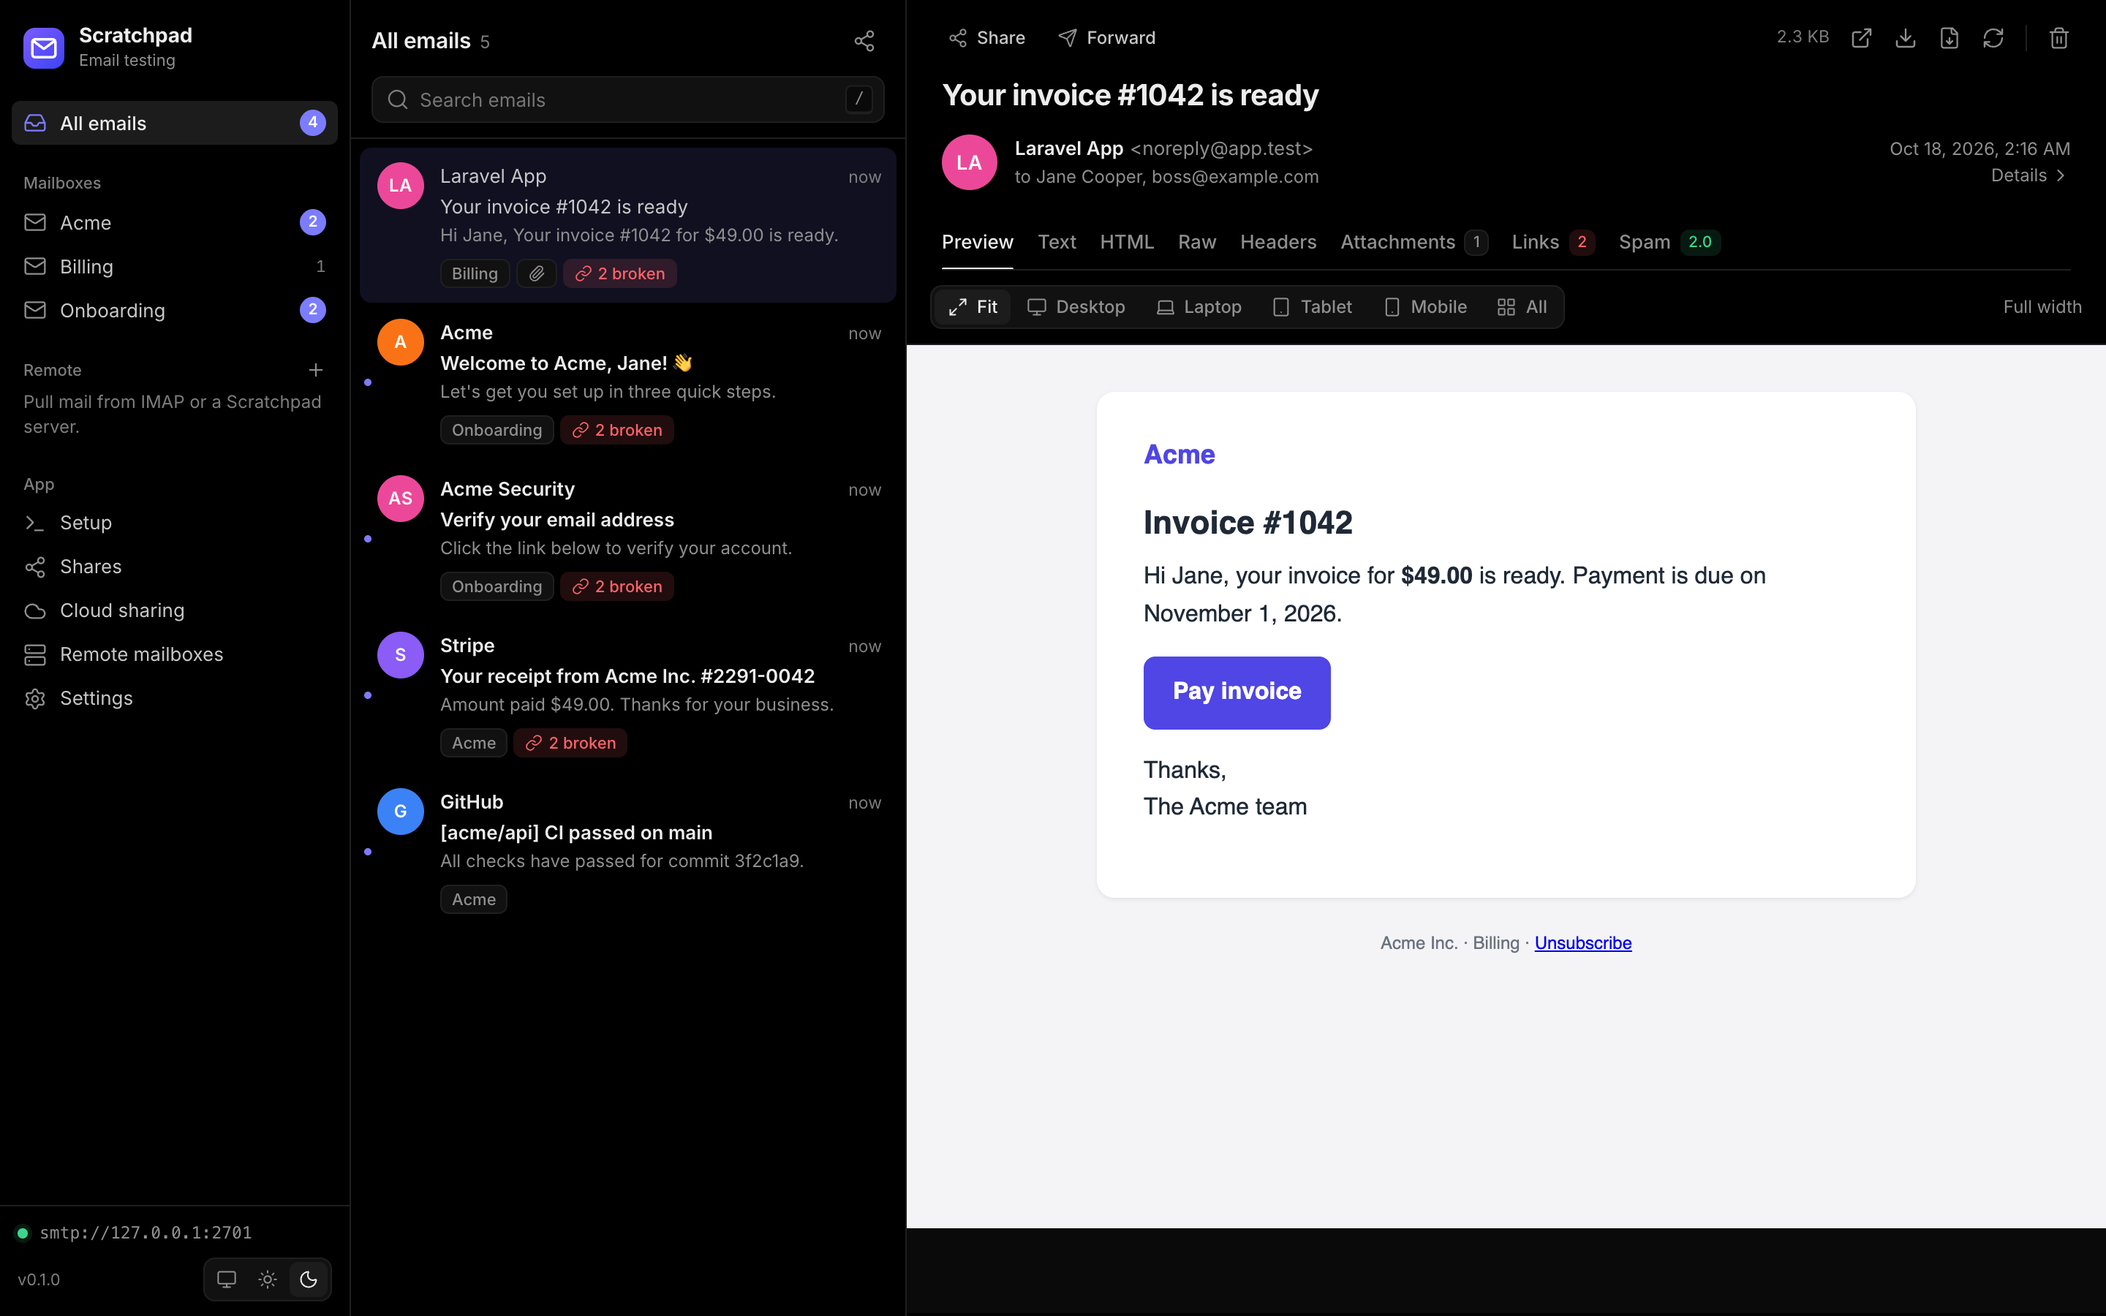
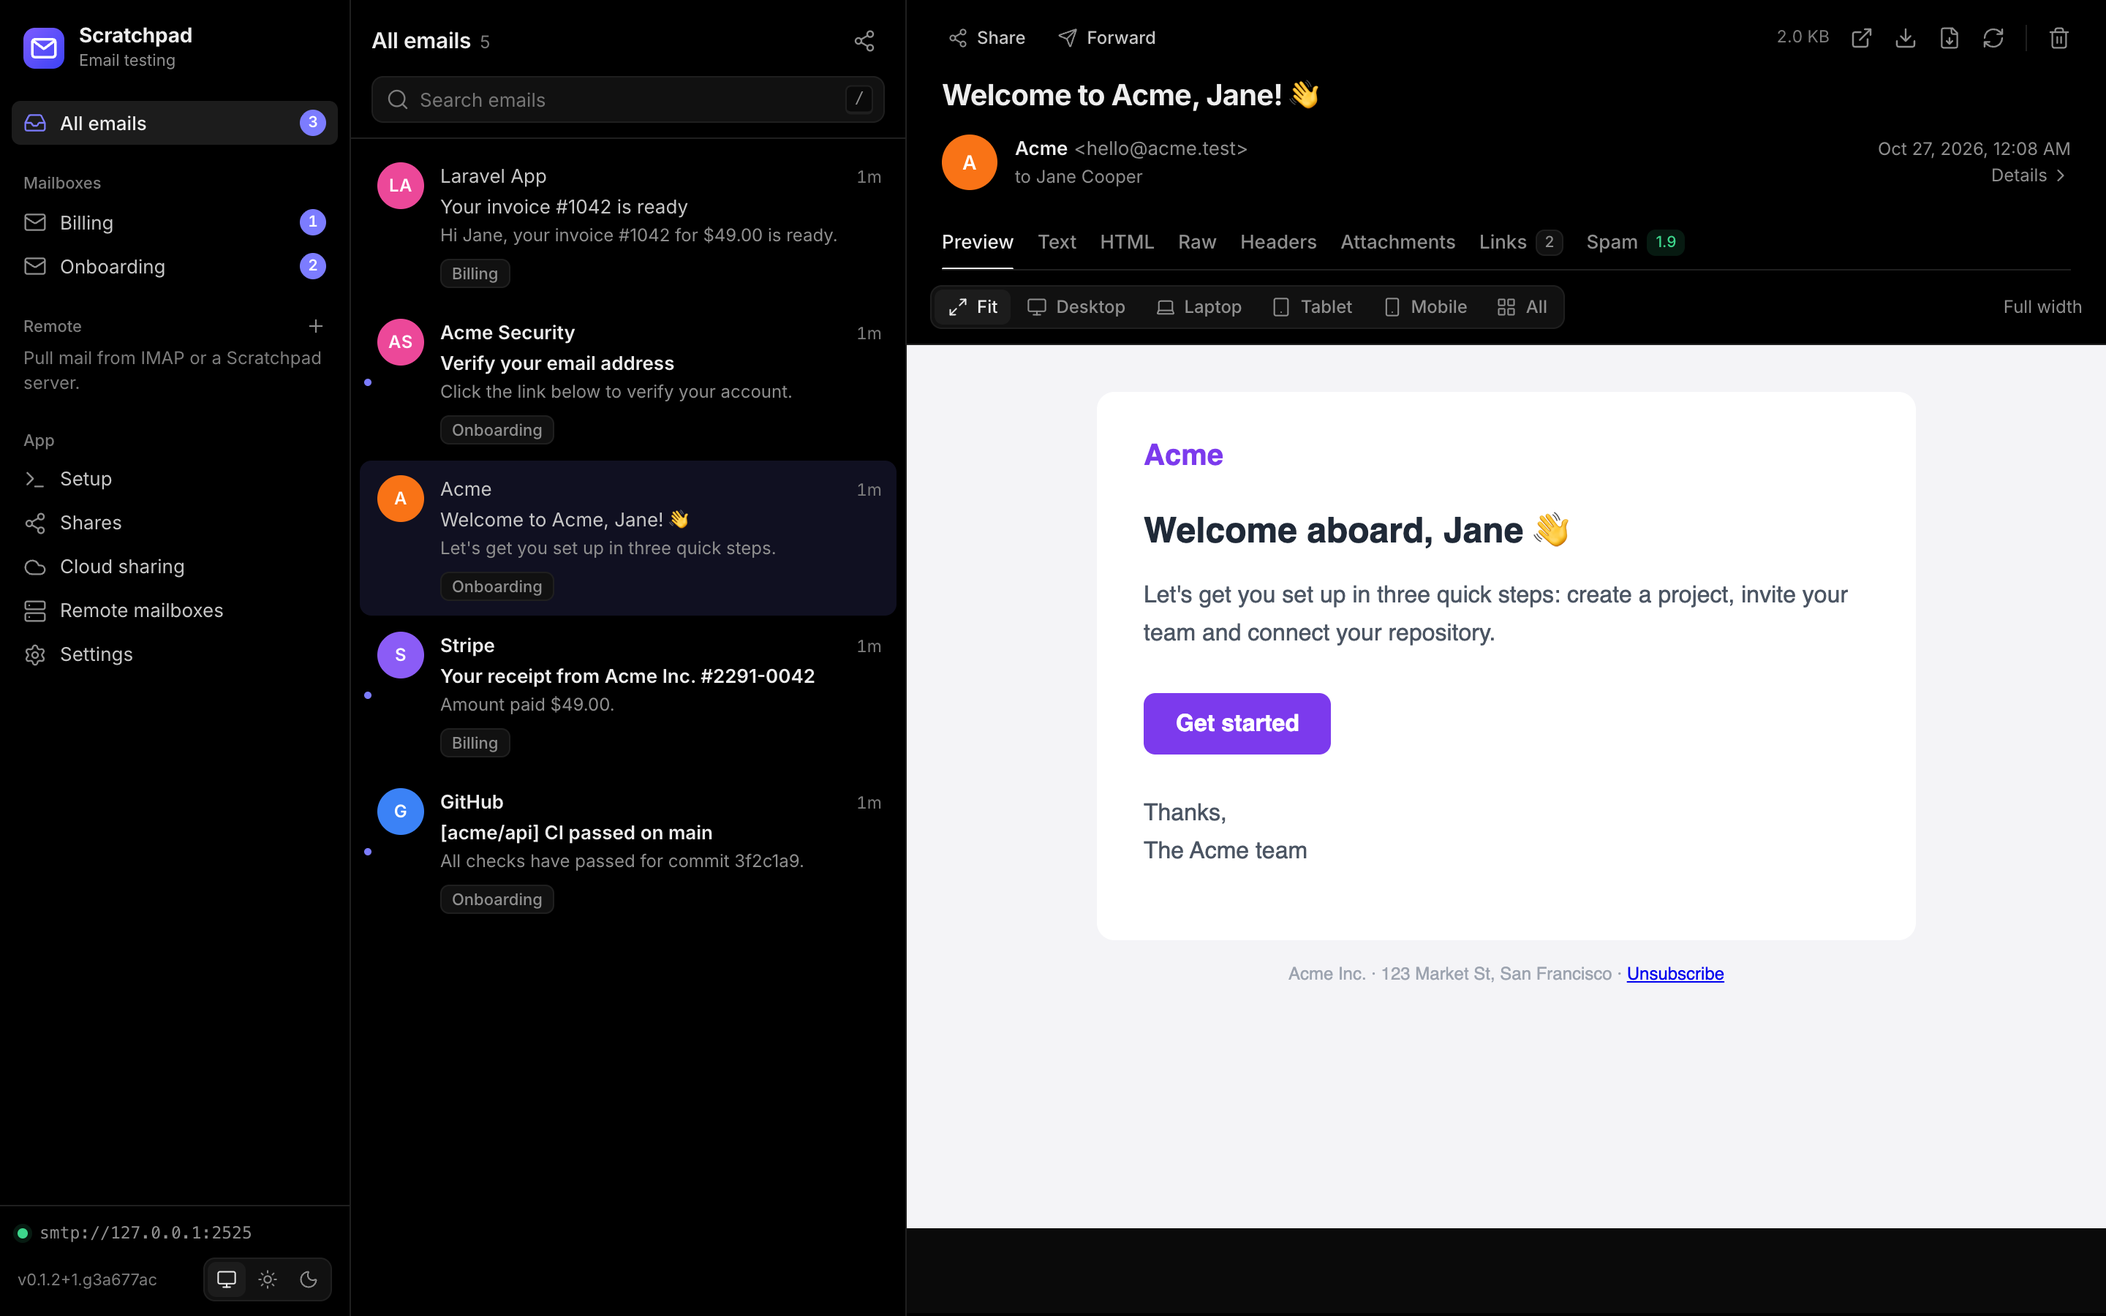
docs: refresh README and screenshots
- Expand the README with quick-start guidance, features, platform support, and updated screenshots
- Align CI and release docs with the master branch

diff --git a/README.md b/README.md
@@ -1,35 +1,114 @@
+<div align="center">
+
+<img src="packaging/icons/scratchpad-256.png" alt="Scratchpad" width="96" height="96">
+
 # Scratchpad
 
-Email testing and debugging for developers, by [ScaleXY](https://scalexy.com). Your applications
-send email to Scratchpad's local SMTP server instead of real inboxes. You then inspect the captured
-messages in a native desktop app (built with [iced](https://iced.rs)) or in a web interface.
-Scratchpad can also run **headless** on a server and be used entirely from the browser.
+**Email testing and debugging for developers.**
+Catch every email your app sends on a local SMTP server and inspect it in a native desktop app or
+in the browser.
 
-```
-scratchpad                 # desktop app (+ web interface on http://127.0.0.1:8025)
-scratchpad --headless      # SMTP server + web interface only, for servers and containers
-```
+[![CI](https://github.com/ScaleXY/scratchpad/actions/workflows/ci.yml/badge.svg?branch=master)](https://github.com/ScaleXY/scratchpad/actions/workflows/ci.yml)
+[![Release build](https://github.com/ScaleXY/scratchpad/actions/workflows/release.yml/badge.svg)](https://github.com/ScaleXY/scratchpad/actions/workflows/release.yml)
+[![Latest release](https://img.shields.io/github/v/release/ScaleXY/scratchpad?include_prereleases&sort=semver&label=release)](https://github.com/ScaleXY/scratchpad/releases)
+[![License: MIT](https://img.shields.io/github/license/ScaleXY/scratchpad)](LICENSE)
+[![Rust 1.90+](https://img.shields.io/badge/rust-1.90%2B-orange?logo=rust)](https://www.rust-lang.org)
+[![Platforms](https://img.shields.io/badge/platforms-macOS%20%7C%20Windows%20%7C%20Linux%20%7C%20Docker-lightgrey)](#supported-platforms)
+
+[Download](https://github.com/ScaleXY/scratchpad/releases) ·
+[Quick start](#quick-start) ·
+[Features](#features) ·
+[Headless & Docker](#running-headless-servers-ci-containers) ·
+[Web API](#web-api) ·
+[Building](#building-from-source)
+
+<img src="docs/screenshots/web-inbox-dark.png" alt="Scratchpad web interface showing a captured welcome email" width="900">
+
+</div>
+
+## Why Scratchpad
+
+Point your app's SMTP settings at Scratchpad instead of a real mail server. Every message is
+captured, never delivered, and shows up instantly with everything you need to debug it: the
+rendered HTML on real device sizes, text and raw source, headers, attachments, broken links and a
+spam score. It runs as a native desktop app (built with [iced](https://iced.rs)) or **headless**
+on a server, where the whole thing is used from the browser.
+
+Built by [ScaleXY](https://scalexy.com). Free and open source under the MIT license.
+
+## Quick start
+
+1. **Install.** Download the installer for your platform from the
+   [latest release](https://github.com/ScaleXY/scratchpad/releases) (`.dmg`, `-setup.exe`,
+   `.deb`, or a `.tar.gz`/`.zip`), or run the container:
+
+   ```sh
+   docker run -d -p 2525:2525 -p 8025:8025 -v scratchpad-data:/data ghcr.io/scalexy/scratchpad
+   ```
+
+2. **Start it.**
+
+   ```sh
+   scratchpad                 # desktop app (+ web interface on http://127.0.0.1:8025)
+   scratchpad --headless      # SMTP server + web interface only, for servers and containers
+   ```
+
+3. **Point your app at it.** SMTP host `127.0.0.1`, port `2525`, no encryption. The username
+   picks the mailbox and any password works. For Laravel:
+
+   ```dotenv
+   MAIL_MAILER=smtp
+   MAIL_HOST=127.0.0.1
+   MAIL_PORT=2525
+   MAIL_USERNAME=My-Project
+   MAIL_PASSWORD=null
+   MAIL_ENCRYPTION=null
+   ```
+
+   The *Setup* page has ready-to-copy snippets for Laravel, Symfony, WordPress, Nodemailer, Rails,
+   Django and Go, plus a **Send test email** button.
+
+## Screenshots
+
+<table>
+  <tr>
+    <td width="50%"><img src="docs/screenshots/desktop-inbox-dark.png" alt="Desktop app, dark theme"><br><sub><b>Desktop app</b>: pure black dark theme</sub></td>
+    <td width="50%"><img src="docs/screenshots/web-inbox-light.png" alt="Web interface, light theme"><br><sub><b>Web interface</b>: light theme with the HTML preview</sub></td>
+  </tr>
+  <tr>
+    <td><img src="docs/screenshots/web-devices-dark.png" alt="Mobile, tablet and desktop previews side by side"><br><sub><b>Multi-device preview</b>: mobile, tablet and desktop at real viewport sizes</sub></td>
+    <td><img src="docs/screenshots/desktop-spam-dark.png" alt="Spam report"><br><sub><b>Spam report</b>: SpamAssassin, with built-in heuristics as a fallback</sub></td>
+  </tr>
+  <tr>
+    <td><img src="docs/screenshots/desktop-share-dark.png" alt="Share dialog"><br><sub><b>Sharing</b>: upload to your own S3 bucket, public or expiring links</sub></td>
+    <td><img src="docs/screenshots/web-setup-dark.png" alt="Setup page with framework snippets"><br><sub><b>Setup</b>: copy-paste config for popular frameworks</sub></td>
+  </tr>
+  <tr>
+    <td><img src="docs/screenshots/desktop-inbox-light.png" alt="Desktop app, light theme"><br><sub><b>Desktop app</b>: light theme</sub></td>
+    <td align="center"><img src="docs/screenshots/web-mobile-light.png" alt="Web interface on a phone" width="45%"><br><sub><b>Responsive web UI</b>: works on a phone too</sub></td>
+  </tr>
+</table>
 
 ## Features
 
 | Feature | Details |
 | --- | --- |
-| Local SMTP server that captures all mail | ✅ port `2525` by default, `AUTH PLAIN/LOGIN`, `PIPELINING`, `8BITMIME`, `SMTPUTF8`, `SIZE`, optional `STARTTLS` |
-| Unlimited mailboxes, created automatically from the SMTP username | ✅ any password is accepted; mail without credentials goes to **Default** |
-| Sender, recipients, CC and BCC | ✅ BCC is derived from SMTP envelope recipients missing from To/Cc |
-| HTML, plain text, HTML source, raw message and headers | ✅ sandboxed HTML preview with **multi-device previews** (see below) |
-| Attachments, including inline `cid:` images | ✅ open or save; inline images render in the HTML preview |
-| Link checker (HEAD, falling back to GET), can be turned off | ✅ |
-| SpamAssassin spam report, can be turned off | ✅ via `spamd` (`127.0.0.1:783`); built-in heuristics when SpamAssassin is not installed |
-| Laravel view inspector (`beyondcode/helo-laravel`) | ✅ decodes the `X-HELO-View`, `X-HELO-View-File` and `X-HELO-View-Data` headers |
-| Forward emails via a custom SMTP server | ✅ none / STARTTLS / TLS, with optional sender override |
-| Share single emails or whole inboxes, list and revoke shares | ✅ **cloud shares** uploaded to your own S3-compatible bucket, or live links served by your Scratchpad web server (see below) |
-| Remote mailboxes for live and staging apps | ✅ poll an **IMAP account**, or another **Scratchpad instance** running headless on your server |
-| Desktop notifications for new mail | ✅ desktop app and web interface |
-| Keyboard navigation | ✅ `↑`/`↓` (or `j`/`k`) to move, `Backspace`/`Delete` to delete, `1`–`9` to switch tabs (desktop) |
-| Bulk delete emails and whole inboxes | ✅ multi-select, empty mailbox, delete mailbox |
-| Search | ✅ subject, sender, recipients and preview |
-| Export | ✅ any email (or a selection) as **one self-contained `.html` file** with the viewer built in |
+| Local SMTP server that captures all mail | port `2525` by default, `AUTH PLAIN/LOGIN`, `PIPELINING`, `8BITMIME`, `SMTPUTF8`, `SIZE`, optional `STARTTLS` |
+| Unlimited mailboxes, created from the SMTP username | any password is accepted; mail without credentials goes to **Default** |
+| Sender, recipients, CC and BCC | BCC is derived from SMTP envelope recipients missing from To/Cc |
+| HTML, plain text, HTML source, raw message and headers | sandboxed HTML preview with [multi-device previews](#multi-device-previews) |
+| Attachments, including inline `cid:` images | open or save; inline images render in the HTML preview |
+| Link checker | HEAD, falling back to GET; can be turned off |
+| Spam report | SpamAssassin via `spamd` (`127.0.0.1:783`); built-in heuristics when it isn't installed; can be turned off |
+| Laravel view inspector | decodes the `X-HELO-View*` headers of [`beyondcode/helo-laravel`](https://github.com/beyondcode/helo-laravel) |
+| Forwarding | through any SMTP server (none / STARTTLS / TLS), with optional sender override |
+| Sharing | single emails or whole inboxes, as [cloud shares](#export-and-cloud-sharing) in your own S3-compatible bucket or live links from your Scratchpad server; list and revoke shares |
+| Remote mailboxes | poll an **IMAP account** or another **Scratchpad instance** running headless next to your staging app |
+| Export | any email (or a selection) as **one self-contained `.html` file** with the viewer built in |
+| Search and bulk actions | search subject, sender, recipients and preview; multi-select, empty or delete mailboxes |
+| Desktop notifications | in the desktop app and the web interface |
+| Keyboard navigation | `↑`/`↓` (or `j`/`k`) to move, `Backspace`/`Delete` to delete, `1`–`9` to switch tabs (desktop) |
+| Themes | System, Light or a pure black (`#000000`) Dark; [Inter](https://rsms.me/inter/) and [Lucide](https://lucide.dev) icons are bundled, so it looks the same everywhere |
 
 Good to know:
 
@@ -37,22 +116,18 @@ Good to know:
   live links point at your own web interface (set *Public URL* when Scratchpad runs behind a domain).
 * **The desktop app's preview is a text rendering.** iced has no HTML engine. *Open in browser*
   shows the real HTML with all device previews from an exported file, so it works offline.
-* **The view inspector reads the headers of the `beyondcode/helo-laravel` package.** Install it in
-  your Laravel app (`composer require --dev beyondcode/helo-laravel`) to see the view behind each
-  mailable.
+* **The view inspector needs `beyondcode/helo-laravel`** in your Laravel app
+  (`composer require --dev beyondcode/helo-laravel`) to see the view behind each mailable.
 
-## Design
+## Pointing your app at Scratchpad
 
-Both UIs share one design system: a neutral light theme and a **pure black (`#000000`) dark
-theme**, the [Inter](https://rsms.me/inter/) typeface and [Lucide](https://lucide.dev) icons.
-Both are bundled, so the app looks the same on every platform. Choose *System*, *Light* or *Dark*
-from the switcher at the bottom of the sidebar. The web UI stores its choice per browser.
-
-To render screenshots of the desktop UI without a display (useful for docs and visual review):
-
-```sh
-cargo test -p scratchpad -- --ignored gui_snapshots   # writes target/gui-snapshots/*.png
-```
+| Setting | Value |
+| --- | --- |
+| Host | `127.0.0.1` (`host.docker.internal` from Docker, `10.0.2.2` from Vagrant/Homestead) |
+| Port | `2525` |
+| Username | the mailbox name, e.g. `My-Project` (optional) |
+| Password | anything |
+| Encryption | none |
 
 ## Multi-device previews
 
@@ -109,30 +184,6 @@ The cloud backend is a stub for now: it mirrors the encrypted vault to `cloud-sy
 data directory, so *Sync now* and *Restore from cloud* can already be exercised. The real service
 plugs in by implementing `scratchpad_core::vault::SyncBackend`.
 
-## Pointing your app at Scratchpad
-
-| Setting | Value |
-| --- | --- |
-| Host | `127.0.0.1` (`host.docker.internal` from Docker, `10.0.2.2` from Vagrant/Homestead) |
-| Port | `2525` |
-| Username | the mailbox name, e.g. `My-Project` (optional) |
-| Password | anything |
-| Encryption | none |
-
-Laravel `.env`:
-
-```dotenv
-MAIL_MAILER=smtp
-MAIL_HOST=127.0.0.1
-MAIL_PORT=2525
-MAIL_USERNAME=Inbox-Name
-MAIL_PASSWORD=null
-MAIL_ENCRYPTION=null
-```
-
-The *Setup* page in both UIs has ready-to-copy snippets for Laravel, Symfony, WordPress, Nodemailer,
-Rails and Django, plus a **Send test email** button.
-
 ## Running headless (servers, CI, containers)
 
 ```sh
@@ -177,6 +228,9 @@ the `scratchpad` user. Configure it in `/etc/default/scratchpad`, then run
 the desktop app, add a *Remote mailbox* of type *Scratchpad server* that points at its URL. New mail
 then shows up locally.
 
+Exposing Scratchpad beyond `127.0.0.1`? Read the [deployment notes](SECURITY.md#deployment-notes)
+first.
+
 ### Web API
 
 The web interface uses a JSON API under `/api`, which you can also script against (for example in
@@ -206,17 +260,18 @@ end-to-end tests):
 | Windows 10/11 | x86 (32-bit), x64, arm64 | `*-setup.exe` (Inno Setup), `.zip`, Microsoft Store (MSIX bundle) | Authenticode via `signtool` (PFX) or Azure Trusted Signing; the Store signs Store packages |
 | macOS 11+ | x64, arm64 | `.dmg`, `.app` zip, CLI `.tar.gz`, Mac App Store (sandboxed universal `.pkg`) | Developer ID + hardened runtime + notarization (ad-hoc without a certificate); Apple re-signs Store packages |
 | Ubuntu 22.04+ | x86 (32-bit), x64, arm64 | `.deb`, `.tar.gz` | detached GPG signatures (`.asc`) |
+| Containers | `amd64`, `arm64`, `386` | `ghcr.io/scalexy/scratchpad` | cosign |
 
 Every release artifact also gets a Sigstore build-provenance attestation
-(`gh attestation verify <file> -R scalexy/scratchpad`). The `SHA256SUMS` file is GPG signed and the
-container image is signed with cosign.
+(`gh attestation verify <file> -R scalexy/scratchpad`), and the `SHA256SUMS` file is GPG signed.
+See [docs/releasing.md](docs/releasing.md) for how to verify downloads.
 
 On Linux the GUI loads X11/Wayland, xkbcommon and the GPU drivers at runtime, so the binary links
-only against glibc. Headless mode has no runtime dependencies beyond glibc. Save and export dialogs use the
-XDG desktop portal (`xdg-desktop-portal`, installed on standard Ubuntu desktops and recommended
-by the `.deb`).
+only against glibc. Headless mode has no runtime dependencies beyond glibc. Save and export dialogs
+use the XDG desktop portal (`xdg-desktop-portal`, installed on standard Ubuntu desktops and
+recommended by the `.deb`).
 
-## Building
+## Building from source
 
 Requires Rust 1.90 or newer.
 
@@ -241,23 +296,27 @@ pwsh scripts/package-windows.ps1 -Target aarch64-pc-windows-msvc   # needs clang
 scripts/smoke-test.sh target/release/scratchpad        # end-to-end check of a built binary
 ```
 
+**Screenshots.** Both UIs can be rendered without a display, which is how the images in
+[`docs/screenshots`](docs/screenshots) are made:
+
+```sh
+cargo test -p scratchpad -- --ignored gui_snapshots    # desktop UI → target/gui-snapshots/*.png
+SCRATCHPAD_BIN=target/debug/scratchpad SCREENSHOTS=target/web-snapshots \
+  node crates/scratchpad-web/tests/ui/smoke.mjs        # web UI (headless Chrome)
+```
+
 ## Releases
 
-The git tag is the version of every build. `scripts/release.sh 1.2.0` moves the changelog entries and tags the release;
-pushing the tag runs `.github/workflows/release.yml`. It builds, tests, smoke-tests, signs and
-packages all eight targets on native GitHub runners, then publishes a GitHub release (notes from
-`CHANGELOG.md`, checksums, provenance attestations), a signed multi-arch (`amd64`, `arm64`, `386`)
-container image and, when configured, Microsoft Store and Mac App Store uploads. Without signing
-secrets it still produces unsigned (ad-hoc on macOS) artifacts.
+The git tag is the version of every build. `scripts/release.sh 1.2.0` moves the changelog entries
+and tags the release; pushing the tag runs `.github/workflows/release.yml`. It builds, tests,
+smoke-tests, signs and packages all eight targets on native GitHub runners, then publishes a GitHub
+release (notes from [`CHANGELOG.md`](CHANGELOG.md), checksums, provenance attestations), a signed
+multi-arch container image and, when configured, Microsoft Store and Mac App Store uploads.
+Without signing secrets it still produces unsigned (ad-hoc on macOS) artifacts.
 
 * [docs/releasing.md](docs/releasing.md): release process, secrets, verifying downloads
 * [docs/windows-store.md](docs/windows-store.md): publishing to the Microsoft Store
 * [docs/mac-app-store.md](docs/mac-app-store.md): publishing to the Mac App Store
-
-## Third-party assets
-
-* Inter, © The Inter Project Authors, SIL Open Font License 1.1 (`assets/fonts/LICENSE-Inter.txt`)
-* Lucide icons, ISC License (`assets/icons/LICENSE`); regenerate with `scripts/build-icons.py`
 
 ## Project layout
 
@@ -270,5 +329,19 @@ crates/scratchpad-web    axum REST API, SSE events, share pages, embedded single
 crates/scratchpad        the `scratchpad` binary: CLI, headless mode, iced desktop GUI (feature `gui`)
 assets/                  shared fonts (Inter) and icons (Lucide)
 packaging/               app icons, macOS bundle files, Windows installer, Linux desktop/systemd/deb files
-scripts/                 packaging, signing and smoke-test scripts
+scripts/                 packaging, signing, release and smoke-test scripts
+docs/                    release and store publishing guides, screenshots
 ```
+
+## Security
+
+Please report vulnerabilities privately; see [SECURITY.md](SECURITY.md).
+
+## License
+
+[MIT](LICENSE) © ScaleXY.
+
+Third-party assets:
+
+* Inter, © The Inter Project Authors, SIL Open Font License 1.1 (`assets/fonts/LICENSE-Inter.txt`)
+* Lucide icons, ISC License (`assets/icons/LICENSE`); regenerate with `scripts/build-icons.py`

diff --git a/docs/releasing.md b/docs/releasing.md
@@ -117,7 +117,7 @@ cosign verify ghcr.io/scalexy/scratchpad:1.2.0 \
 
 ## When something goes wrong
 
-* **A build job failed:** fix the problem on `main`, delete the tag
+* **A build job failed:** fix the problem on `master`, delete the tag
   (`git push --delete origin v1.2.0 && git tag -d v1.2.0`), delete the draft or partial release if
   one was created, and release again. Re-running failed jobs is fine for flaky infrastructure.
 * **A bad release went out:** publish a patch release (`1.2.1`). Don't reuse tags. In the Store,
